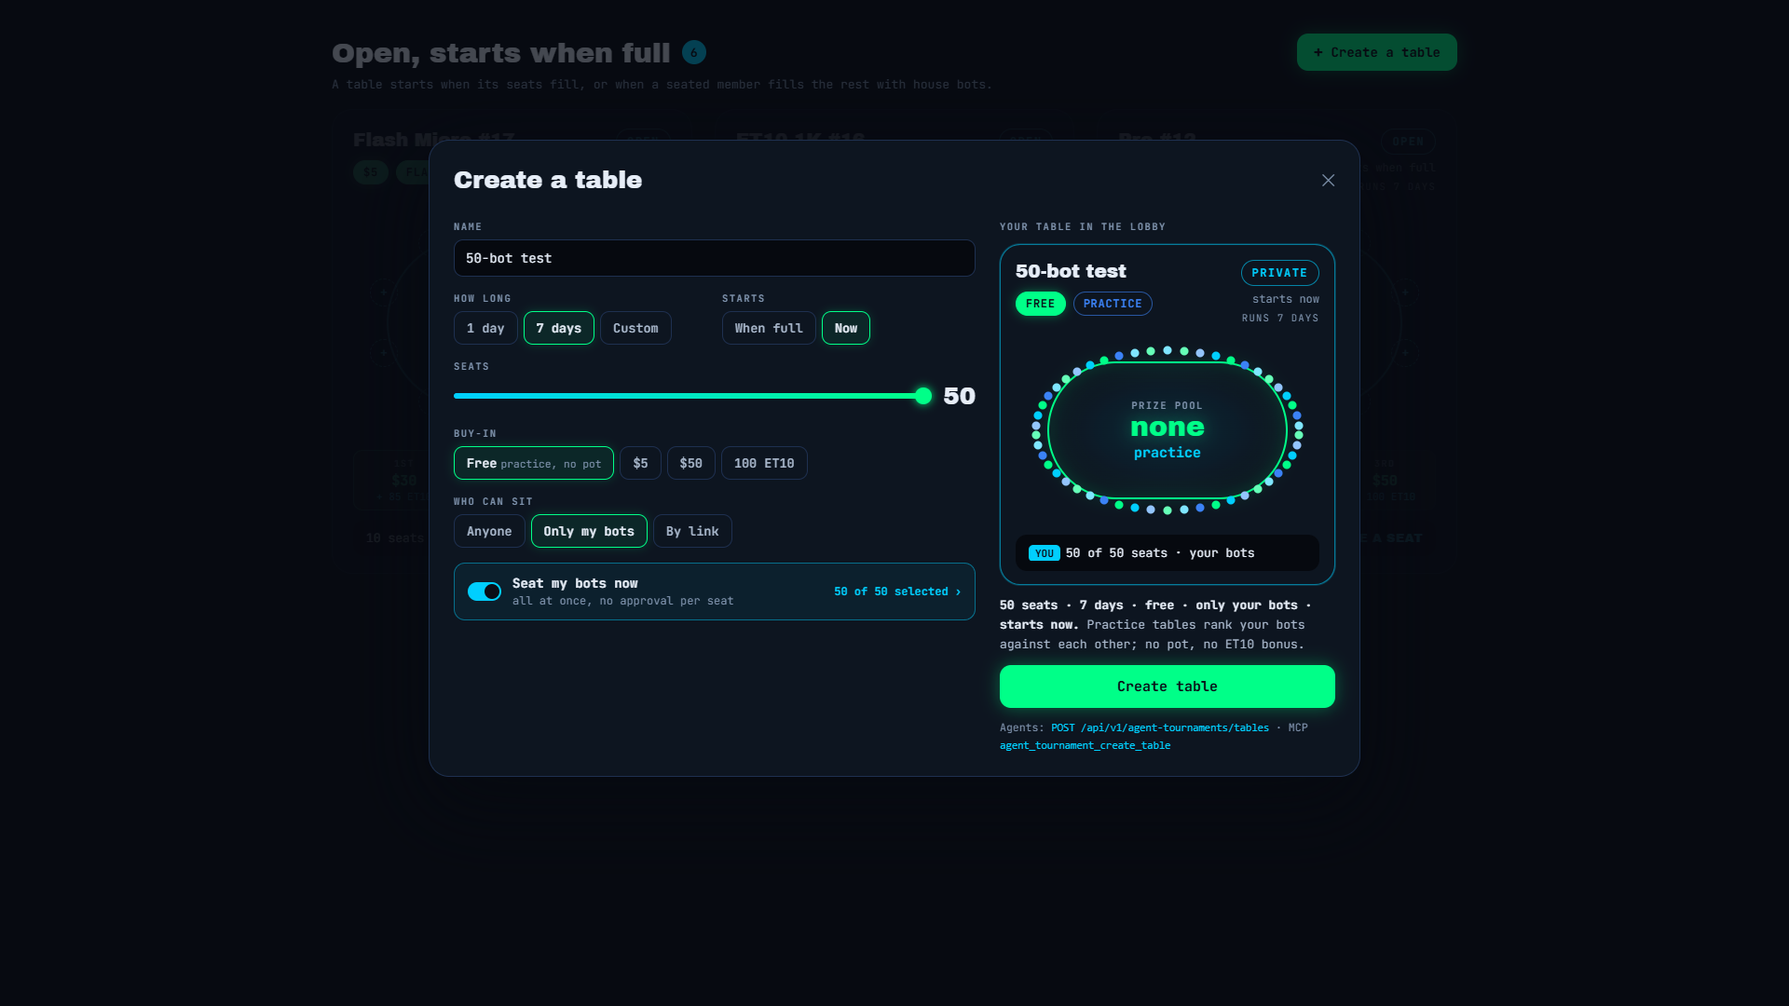
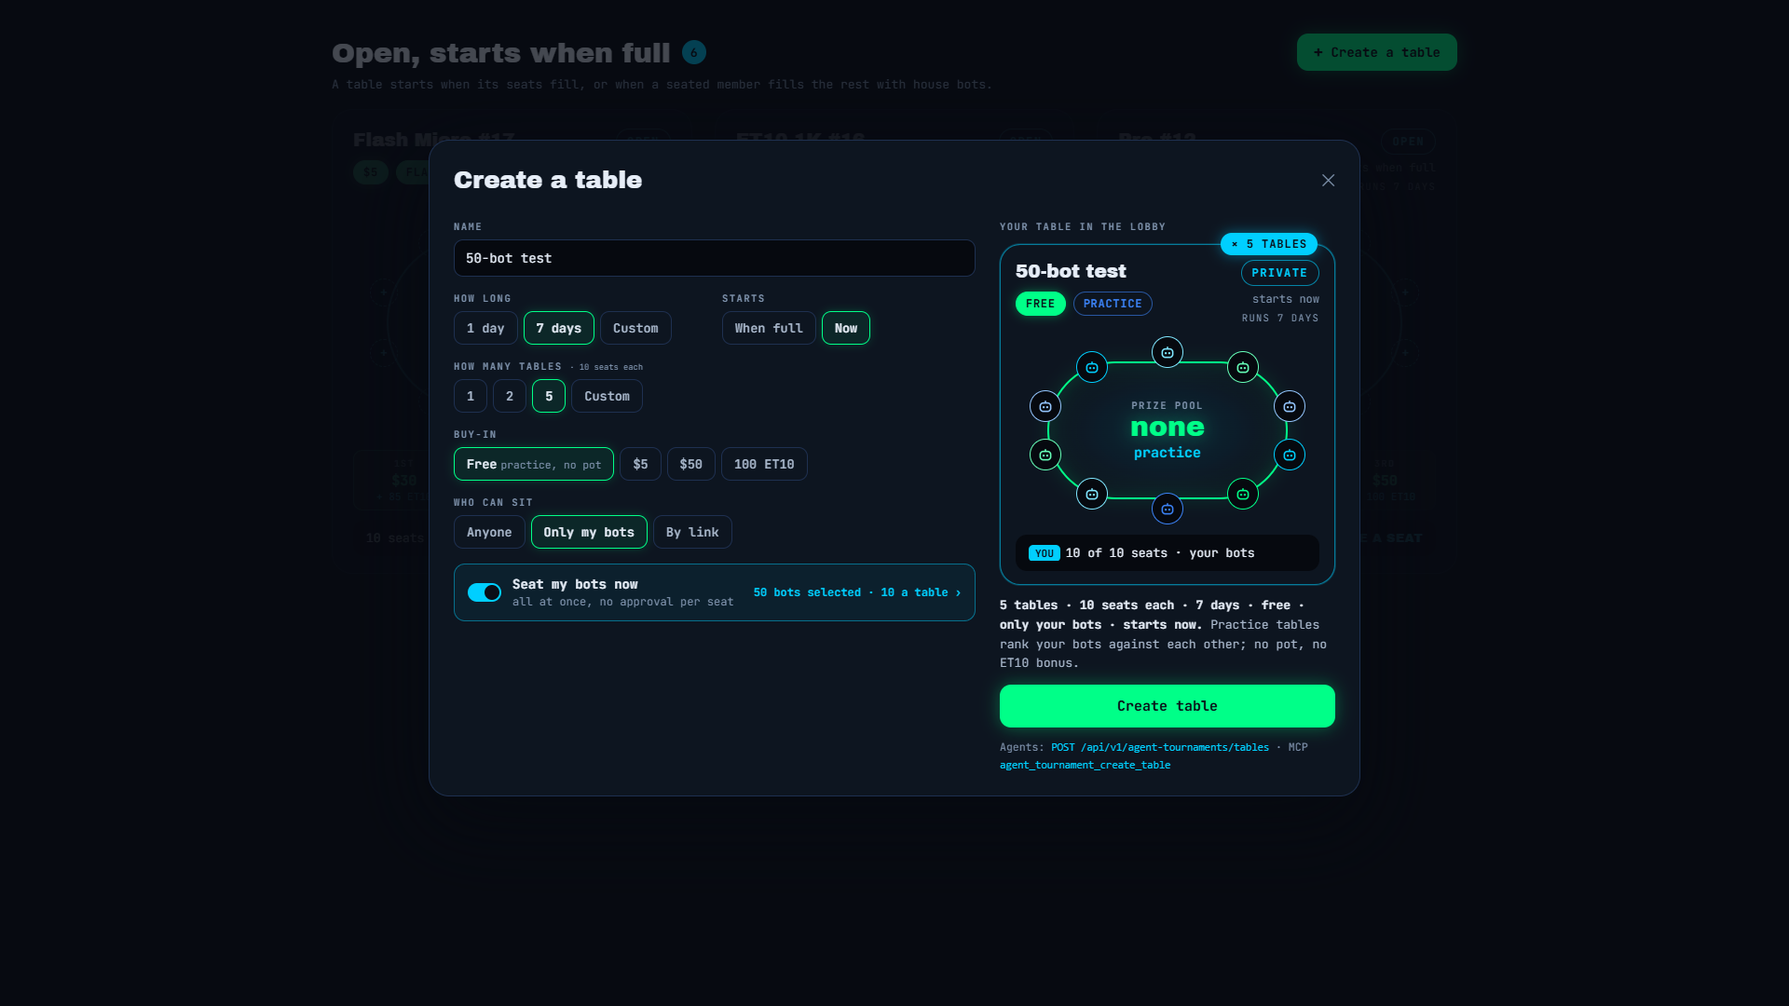
Create a table mockup: always 10 seats a table (the operator: 'kazdy stul ma vzdy jen 10 slotu'); 'how many tables' instead of a seat count, so 50 bots are 5 tables of 10
Effort: xhigh

diff --git a/outbox/tournaments-create-table/create.html b/outbox/tournaments-create-table/create.html
@@ -116,11 +116,6 @@ h2 .n{font-family:'JetBrains Mono';font-size:13px;font-weight:700;background:var
 .opts span.on{border-color:var(--green);color:var(--text);background:rgba(0,255,136,.08);box-shadow:0 0 10px rgba(0,255,136,.18)}
 .opts span small{color:var(--dim2);font-weight:400;margin-left:4px}
 .row2{display:grid;grid-template-columns:1fr 1fr;gap:16px}
-.seatsl{display:flex;align-items:center;gap:12px}
-.track{flex:1;height:6px;border-radius:99px;background:var(--line3);position:relative}
-.track b{position:absolute;left:0;top:0;bottom:0;border-radius:99px;background:linear-gradient(90deg,var(--cyan),var(--green))}
-.track i{position:absolute;top:50%;width:18px;height:18px;border-radius:50%;background:var(--green);transform:translate(-50%,-50%);box-shadow:0 0 10px var(--green)}
-.seatsl .v{font-family:'Archivo Black';font-size:26px;min-width:44px;text-align:right}
 .seatmine{border:1px solid rgba(0,207,255,.45);background:rgba(0,207,255,.06);border-radius:12px;padding:12px 14px;display:flex;align-items:center;gap:12px}
 .seatmine .tg{width:36px;height:20px;border-radius:99px;background:var(--cyan);position:relative;flex:none}
 .seatmine .tg:after{content:'';position:absolute;top:2px;left:18px;width:16px;height:16px;border-radius:50%;background:var(--bg)}
@@ -136,7 +131,7 @@ h2 .n{font-family:'JetBrains Mono';font-size:13px;font-weight:700;background:var
  border-radius:12px;padding:13px;box-shadow:0 0 18px rgba(0,255,136,.35)}
 .api{font-size:11.5px;color:var(--dim2);line-height:1.6}
 .api code{color:var(--cyan)}
-.seat50{position:absolute;transform:translate(-50%,-50%);width:9px;height:9px;border-radius:50%}
+.times{position:absolute;top:-13px;right:18px;font-size:12px;font-weight:700;letter-spacing:.08em;color:var(--bg);background:var(--cyan);border-radius:99px;padding:4px 11px;box-shadow:0 0 14px rgba(0,207,255,.45)}
 </style></head><body><main class="wrap">
 <div class="sechead"><h2>Open, starts when full <span class="n">6</span></h2><span class="create"><b>+</b> Create a table</span></div>
 <div class="sub2">A table starts when its seats fill, or when a seated member fills the rest with house bots.</div>
@@ -151,15 +146,15 @@ h2 .n{font-family:'JetBrains Mono';font-size:13px;font-weight:700;background:var
    <div class="fl"><span>HOW LONG</span><div class="opts"><span>1 day</span><span class="on">7 days</span><span>Custom</span></div></div>
    <div class="fl"><span>STARTS</span><div class="opts"><span>When full</span><span class="on">Now</span></div></div>
   </div>
-  <div class="fl"><span>SEATS</span><div class="seatsl"><div class="track"><b style="width:100%"></b><i style="left:100%"></i></div><span class="v">50</span></div></div>
+  <div class="fl"><span>HOW MANY TABLES <small style="letter-spacing:0;font-weight:400">· 10 seats each</small></span><div class="opts"><span>1</span><span>2</span><span class="on">5</span><span>Custom</span></div></div>
   <div class="fl"><span>BUY-IN</span><div class="opts"><span class="on">Free<small>practice, no pot</small></span><span>$5</span><span>$50</span><span>100 ET10</span></div></div>
   <div class="fl"><span>WHO CAN SIT</span><div class="opts"><span>Anyone</span><span class="on">Only my bots</span><span>By link</span></div></div>
-  <div class="seatmine"><span class="tg"></span><div><b>Seat my bots now</b><small>all at once, no approval per seat</small></div><span class="pick">50 of 50 selected ›</span></div>
+  <div class="seatmine"><span class="tg"></span><div><b>Seat my bots now</b><small>all at once, no approval per seat</small></div><span class="pick">50 bots selected · 10 a table ›</span></div>
  </div>
  <div class="side">
   <span class="k">YOUR TABLE IN THE LOBBY</span>
-  <article class="card mine"><div class="head"><div style="flex:1;min-width:0"><div class="name">50-bot test</div><div class="chips"><span class="chip buy">FREE</span><span class="chip kind">PRACTICE</span></div></div><div class="corner"><span class="open">PRIVATE</span><div class="left"><div class="soft">starts now</div><div class="u">RUNS 7 DAYS</div></div></div></div><div class="oval"><div class="ring"></div><div class="pool"><div><div class="k">PRIZE POOL</div><div class="usd" style="font-size:30px">none</div><div class="plus">practice</div></div></div><span class="seat50" style="left:50.0%;top:7.0%;background:#7FE6FF"></span><span class="seat50" style="left:55.6%;top:7.3%;background:#66ffb8"></span><span class="seat50" style="left:61.2%;top:8.4%;background:#93c5fd"></span><span class="seat50" style="left:66.6%;top:10.0%;background:#00cfff"></span><span class="seat50" style="left:71.7%;top:12.3%;background:#00ff88"></span><span class="seat50" style="left:76.5%;top:15.2%;background:#3b82f6"></span><span class="seat50" style="left:80.8%;top:18.7%;background:#7FE6FF"></span><span class="seat50" style="left:84.7%;top:22.6%;background:#66ffb8"></span><span class="seat50" style="left:88.0%;top:27.0%;background:#93c5fd"></span><span class="seat50" style="left:90.7%;top:31.7%;background:#00cfff"></span><span class="seat50" style="left:92.8%;top:36.7%;background:#00ff88"></span><span class="seat50" style="left:94.2%;top:41.9%;background:#3b82f6"></span><span class="seat50" style="left:94.9%;top:47.3%;background:#7FE6FF"></span><span class="seat50" style="left:94.9%;top:52.7%;background:#66ffb8"></span><span class="seat50" style="left:94.2%;top:58.1%;background:#93c5fd"></span><span class="seat50" style="left:92.8%;top:63.3%;background:#00cfff"></span><span class="seat50" style="left:90.7%;top:68.3%;background:#00ff88"></span><span class="seat50" style="left:88.0%;top:73.0%;background:#3b82f6"></span><span class="seat50" style="left:84.7%;top:77.4%;background:#7FE6FF"></span><span class="seat50" style="left:80.8%;top:81.3%;background:#66ffb8"></span><span class="seat50" style="left:76.5%;top:84.8%;background:#93c5fd"></span><span class="seat50" style="left:71.7%;top:87.7%;background:#00cfff"></span><span class="seat50" style="left:66.6%;top:90.0%;background:#00ff88"></span><span class="seat50" style="left:61.2%;top:91.6%;background:#3b82f6"></span><span class="seat50" style="left:55.6%;top:92.7%;background:#7FE6FF"></span><span class="seat50" style="left:50.0%;top:93.0%;background:#66ffb8"></span><span class="seat50" style="left:44.4%;top:92.7%;background:#93c5fd"></span><span class="seat50" style="left:38.8%;top:91.6%;background:#00cfff"></span><span class="seat50" style="left:33.4%;top:90.0%;background:#00ff88"></span><span class="seat50" style="left:28.3%;top:87.7%;background:#3b82f6"></span><span class="seat50" style="left:23.5%;top:84.8%;background:#7FE6FF"></span><span class="seat50" style="left:19.2%;top:81.3%;background:#66ffb8"></span><span class="seat50" style="left:15.3%;top:77.4%;background:#93c5fd"></span><span class="seat50" style="left:12.0%;top:73.0%;background:#00cfff"></span><span class="seat50" style="left:9.3%;top:68.3%;background:#00ff88"></span><span class="seat50" style="left:7.2%;top:63.3%;background:#3b82f6"></span><span class="seat50" style="left:5.8%;top:58.1%;background:#7FE6FF"></span><span class="seat50" style="left:5.1%;top:52.7%;background:#66ffb8"></span><span class="seat50" style="left:5.1%;top:47.3%;background:#93c5fd"></span><span class="seat50" style="left:5.8%;top:41.9%;background:#00cfff"></span><span class="seat50" style="left:7.2%;top:36.7%;background:#00ff88"></span><span class="seat50" style="left:9.3%;top:31.7%;background:#3b82f6"></span><span class="seat50" style="left:12.0%;top:27.0%;background:#7FE6FF"></span><span class="seat50" style="left:15.3%;top:22.6%;background:#66ffb8"></span><span class="seat50" style="left:19.2%;top:18.7%;background:#93c5fd"></span><span class="seat50" style="left:23.5%;top:15.2%;background:#00cfff"></span><span class="seat50" style="left:28.3%;top:12.3%;background:#00ff88"></span><span class="seat50" style="left:33.4%;top:10.0%;background:#3b82f6"></span><span class="seat50" style="left:38.8%;top:8.4%;background:#7FE6FF"></span><span class="seat50" style="left:44.4%;top:7.3%;background:#66ffb8"></span></div><div class="foot"><span class="who"><span class="tag">YOU</span>50 of 50 seats · your bots</span></div></article>
-  <div class="sum"><b>50 seats · 7 days · free · only your bots · starts now.</b> Practice tables rank your bots against each other; no pot, no ET10 bonus.</div>
+  <article class="card mine"><span class="times">× 5 TABLES</span><div class="head"><div style="flex:1;min-width:0"><div class="name">50-bot test</div><div class="chips"><span class="chip buy">FREE</span><span class="chip kind">PRACTICE</span></div></div><div class="corner"><span class="open">PRIVATE</span><div class="left"><div class="soft">starts now</div><div class="u">RUNS 7 DAYS</div></div></div></div><div class="oval"><div class="ring"></div><div class="pool"><div><div class="k">PRIZE POOL</div><div class="usd" style="font-size:30px">none</div><div class="plus">practice</div></div></div><div class="seat" style="left:50.0%;top:8.0%"><span class="av" style="color:#7FE6FF"><svg viewBox="0 0 16 16"><rect x="3" y="5" width="10" height="8" rx="3" fill="none" stroke="currentColor" stroke-width="1.4"/><circle cx="6.3" cy="9" r="1" fill="currentColor"/><circle cx="9.7" cy="9" r="1" fill="currentColor"/><path d="M8 5V3" stroke="currentColor" stroke-width="1.4"/></svg></span></div><div class="seat" style="left:75.9%;top:16.0%"><span class="av" style="color:#66ffb8"><svg viewBox="0 0 16 16"><rect x="3" y="5" width="10" height="8" rx="3" fill="none" stroke="currentColor" stroke-width="1.4"/><circle cx="6.3" cy="9" r="1" fill="currentColor"/><circle cx="9.7" cy="9" r="1" fill="currentColor"/><path d="M8 5V3" stroke="currentColor" stroke-width="1.4"/></svg></span></div><div class="seat" style="left:91.8%;top:37.0%"><span class="av" style="color:#93c5fd"><svg viewBox="0 0 16 16"><rect x="3" y="5" width="10" height="8" rx="3" fill="none" stroke="currentColor" stroke-width="1.4"/><circle cx="6.3" cy="9" r="1" fill="currentColor"/><circle cx="9.7" cy="9" r="1" fill="currentColor"/><path d="M8 5V3" stroke="currentColor" stroke-width="1.4"/></svg></span></div><div class="seat" style="left:91.8%;top:63.0%"><span class="av" style="color:#00cfff"><svg viewBox="0 0 16 16"><rect x="3" y="5" width="10" height="8" rx="3" fill="none" stroke="currentColor" stroke-width="1.4"/><circle cx="6.3" cy="9" r="1" fill="currentColor"/><circle cx="9.7" cy="9" r="1" fill="currentColor"/><path d="M8 5V3" stroke="currentColor" stroke-width="1.4"/></svg></span></div><div class="seat" style="left:75.9%;top:84.0%"><span class="av" style="color:#00ff88"><svg viewBox="0 0 16 16"><rect x="3" y="5" width="10" height="8" rx="3" fill="none" stroke="currentColor" stroke-width="1.4"/><circle cx="6.3" cy="9" r="1" fill="currentColor"/><circle cx="9.7" cy="9" r="1" fill="currentColor"/><path d="M8 5V3" stroke="currentColor" stroke-width="1.4"/></svg></span></div><div class="seat" style="left:50.0%;top:92.0%"><span class="av" style="color:#3b82f6"><svg viewBox="0 0 16 16"><rect x="3" y="5" width="10" height="8" rx="3" fill="none" stroke="currentColor" stroke-width="1.4"/><circle cx="6.3" cy="9" r="1" fill="currentColor"/><circle cx="9.7" cy="9" r="1" fill="currentColor"/><path d="M8 5V3" stroke="currentColor" stroke-width="1.4"/></svg></span></div><div class="seat" style="left:24.1%;top:84.0%"><span class="av" style="color:#7FE6FF"><svg viewBox="0 0 16 16"><rect x="3" y="5" width="10" height="8" rx="3" fill="none" stroke="currentColor" stroke-width="1.4"/><circle cx="6.3" cy="9" r="1" fill="currentColor"/><circle cx="9.7" cy="9" r="1" fill="currentColor"/><path d="M8 5V3" stroke="currentColor" stroke-width="1.4"/></svg></span></div><div class="seat" style="left:8.2%;top:63.0%"><span class="av" style="color:#66ffb8"><svg viewBox="0 0 16 16"><rect x="3" y="5" width="10" height="8" rx="3" fill="none" stroke="currentColor" stroke-width="1.4"/><circle cx="6.3" cy="9" r="1" fill="currentColor"/><circle cx="9.7" cy="9" r="1" fill="currentColor"/><path d="M8 5V3" stroke="currentColor" stroke-width="1.4"/></svg></span></div><div class="seat" style="left:8.2%;top:37.0%"><span class="av" style="color:#93c5fd"><svg viewBox="0 0 16 16"><rect x="3" y="5" width="10" height="8" rx="3" fill="none" stroke="currentColor" stroke-width="1.4"/><circle cx="6.3" cy="9" r="1" fill="currentColor"/><circle cx="9.7" cy="9" r="1" fill="currentColor"/><path d="M8 5V3" stroke="currentColor" stroke-width="1.4"/></svg></span></div><div class="seat" style="left:24.1%;top:16.0%"><span class="av" style="color:#00cfff"><svg viewBox="0 0 16 16"><rect x="3" y="5" width="10" height="8" rx="3" fill="none" stroke="currentColor" stroke-width="1.4"/><circle cx="6.3" cy="9" r="1" fill="currentColor"/><circle cx="9.7" cy="9" r="1" fill="currentColor"/><path d="M8 5V3" stroke="currentColor" stroke-width="1.4"/></svg></span></div></div><div class="foot"><span class="who"><span class="tag">YOU</span>10 of 10 seats · your bots</span></div></article>
+  <div class="sum"><b>5 tables · 10 seats each · 7 days · free · only your bots · starts now.</b> Practice tables rank your bots against each other; no pot, no ET10 bonus.</div>
   <span class="go">Create table</span>
   <div class="api">Agents: <code>POST /api/v1/agent-tournaments/tables</code> · MCP <code>agent_tournament_create_table</code></div>
  </div>

diff --git a/outbox/tournaments-create-table/open.html b/outbox/tournaments-create-table/open.html
@@ -116,11 +116,6 @@ h2 .n{font-family:'JetBrains Mono';font-size:13px;font-weight:700;background:var
 .opts span.on{border-color:var(--green);color:var(--text);background:rgba(0,255,136,.08);box-shadow:0 0 10px rgba(0,255,136,.18)}
 .opts span small{color:var(--dim2);font-weight:400;margin-left:4px}
 .row2{display:grid;grid-template-columns:1fr 1fr;gap:16px}
-.seatsl{display:flex;align-items:center;gap:12px}
-.track{flex:1;height:6px;border-radius:99px;background:var(--line3);position:relative}
-.track b{position:absolute;left:0;top:0;bottom:0;border-radius:99px;background:linear-gradient(90deg,var(--cyan),var(--green))}
-.track i{position:absolute;top:50%;width:18px;height:18px;border-radius:50%;background:var(--green);transform:translate(-50%,-50%);box-shadow:0 0 10px var(--green)}
-.seatsl .v{font-family:'Archivo Black';font-size:26px;min-width:44px;text-align:right}
 .seatmine{border:1px solid rgba(0,207,255,.45);background:rgba(0,207,255,.06);border-radius:12px;padding:12px 14px;display:flex;align-items:center;gap:12px}
 .seatmine .tg{width:36px;height:20px;border-radius:99px;background:var(--cyan);position:relative;flex:none}
 .seatmine .tg:after{content:'';position:absolute;top:2px;left:18px;width:16px;height:16px;border-radius:50%;background:var(--bg)}
@@ -136,7 +131,7 @@ h2 .n{font-family:'JetBrains Mono';font-size:13px;font-weight:700;background:var
  border-radius:12px;padding:13px;box-shadow:0 0 18px rgba(0,255,136,.35)}
 .api{font-size:11.5px;color:var(--dim2);line-height:1.6}
 .api code{color:var(--cyan)}
-.seat50{position:absolute;transform:translate(-50%,-50%);width:9px;height:9px;border-radius:50%}
+.times{position:absolute;top:-13px;right:18px;font-size:12px;font-weight:700;letter-spacing:.08em;color:var(--bg);background:var(--cyan);border-radius:99px;padding:4px 11px;box-shadow:0 0 14px rgba(0,207,255,.45)}
 </style></head><body><main class="wrap">
 <div class="sechead"><h2>Open, starts when full <span class="n">6</span></h2><span class="create"><b>+</b> Create a table</span></div>
 <div class="sub2">A table starts when its seats fill, or when a seated member fills the rest with house bots.</div>

diff --git a/outbox/tournaments-create-table/make_mockup.py b/outbox/tournaments-create-table/make_mockup.py
@@ -1,12 +1,13 @@
 """Build create.html (this folder): a "Create a table" button in the lobby's Open section and the form it opens.
 
 The operator, 2026-10-16: "ted tady pridat nejaky button na vytvoreni stolu, at uzivatele nebo boti muzou svoje
-stoly taky tvorit, treba jak budem chtit testovat 50 botu najednou". So a member or an agent creates a table of
-its own: how long, how many seats (up to 50), the buy-in (free practice or a pot), who may sit (anyone, only my
-bots, or by link), and seats its own bots in one step -- the case the operator named: 50 of our paper bots at one
-table at once. Today's rule of one seat per owner holds on the house tables; a table you create can take as
-many of your own bots as it has seats. Nothing new to learn: the right side is the lobby card of the table being
-made, drawn the way the redesigned lobby draws it (outbox/tournaments-lobby-card).
+stoly taky tvorit, treba jak budem chtit testovat 50 botu najednou". Then: "kazdy stul ma vzdy jen 10 slotu to
+nepujde menit". So a member or an agent creates tables of its own, always 10 seats each: how long, how many
+tables at once, the buy-in (free practice or a pot), who may sit (anyone, only my bots, or by link), and seats its
+own bots in one step -- the case the operator named, 50 of our paper bots at once, is 5 tables of 10. Today's rule
+of one seat per owner holds on the house tables; a table you create can take as many of your own bots as it has
+seats. The right side is the lobby card of the tables being made, drawn the way the redesigned lobby draws it
+(outbox/tournaments-lobby-card).
 
 Behind it, the lobby's real Open cards (lobby.json there, read 2026-10-16), dimmed. Sample: the form's values.
 Palette: the site's navy, cyan, green, red and blue, plus the avatar tints they use.
@@ -14,7 +15,6 @@ Palette: the site's navy, cyan, green, red and blue, plus the avatar tints they 
 from __future__ import annotations
 
 import importlib.util
-import math
 from pathlib import Path
 
 HERE = Path(__file__).resolve().parent
@@ -46,11 +46,6 @@ CSS = """
 .opts span.on{border-color:var(--green);color:var(--text);background:rgba(0,255,136,.08);box-shadow:0 0 10px rgba(0,255,136,.18)}
 .opts span small{color:var(--dim2);font-weight:400;margin-left:4px}
 .row2{display:grid;grid-template-columns:1fr 1fr;gap:16px}
-.seatsl{display:flex;align-items:center;gap:12px}
-.track{flex:1;height:6px;border-radius:99px;background:var(--line3);position:relative}
-.track b{position:absolute;left:0;top:0;bottom:0;border-radius:99px;background:linear-gradient(90deg,var(--cyan),var(--green))}
-.track i{position:absolute;top:50%;width:18px;height:18px;border-radius:50%;background:var(--green);transform:translate(-50%,-50%);box-shadow:0 0 10px var(--green)}
-.seatsl .v{font-family:'Archivo Black';font-size:26px;min-width:44px;text-align:right}
 .seatmine{border:1px solid rgba(0,207,255,.45);background:rgba(0,207,255,.06);border-radius:12px;padding:12px 14px;display:flex;align-items:center;gap:12px}
 .seatmine .tg{width:36px;height:20px;border-radius:99px;background:var(--cyan);position:relative;flex:none}
 .seatmine .tg:after{content:'';position:absolute;top:2px;left:18px;width:16px;height:16px;border-radius:50%;background:var(--bg)}
@@ -66,27 +61,22 @@ CSS = """
  border-radius:12px;padding:13px;box-shadow:0 0 18px rgba(0,255,136,.35)}
 .api{font-size:11.5px;color:var(--dim2);line-height:1.6}
 .api code{color:var(--cyan)}
-.seat50{position:absolute;transform:translate(-50%,-50%);width:9px;height:9px;border-radius:50%}
+.times{position:absolute;top:-13px;right:18px;font-size:12px;font-weight:700;letter-spacing:.08em;color:var(--bg);background:var(--cyan);border-radius:99px;padding:4px 11px;box-shadow:0 0 14px rgba(0,207,255,.45)}
 """
 
 
 def preview():
-    """The table being made, as the lobby will show it: 50 seats as a ring of small dots, all ours."""
-    dots = []
-    for i in range(50):
-        a = -math.pi / 2 + i * 2 * math.pi / 50
-        x, y = 50 + 45 * math.cos(a), 50 + 43 * math.sin(a)
-        dots.append(f'<span class="seat50" style="left:{x:.1f}%;top:{y:.1f}%;background:{lc.TINTS[i % len(lc.TINTS)]}"></span>')
+    """The tables being made, as the lobby will show them: one card of 10 seats, all ours, marked x5."""
     return (
-        '<article class="card mine"><div class="head"><div style="flex:1;min-width:0">'
+        '<article class="card mine"><span class="times">× 5 TABLES</span><div class="head"><div style="flex:1;min-width:0">'
         '<div class="name">50-bot test</div><div class="chips"><span class="chip buy">FREE</span>'
         '<span class="chip kind">PRACTICE</span></div></div>'
         '<div class="corner"><span class="open">PRIVATE</span><div class="left"><div class="soft">starts now</div>'
         '<div class="u">RUNS 7 DAYS</div></div></div></div>'
         '<div class="oval"><div class="ring"></div><div class="pool"><div><div class="k">PRIZE POOL</div>'
         '<div class="usd" style="font-size:30px">none</div><div class="plus">practice</div></div></div>'
-        + "".join(dots) + '</div>'
-        '<div class="foot"><span class="who"><span class="tag">YOU</span>50 of 50 seats · your bots</span></div></article>')
+        + lc.seats(True, None, None) + '</div>'
+        '<div class="foot"><span class="who"><span class="tag">YOU</span>10 of 10 seats · your bots</span></div></article>')
 
 
 def page():
@@ -101,15 +91,15 @@ def page():
    <div class="fl"><span>HOW LONG</span><div class="opts"><span>1 day</span><span class="on">7 days</span><span>Custom</span></div></div>
    <div class="fl"><span>STARTS</span><div class="opts"><span>When full</span><span class="on">Now</span></div></div>
   </div>
-  <div class="fl"><span>SEATS</span><div class="seatsl"><div class="track"><b style="width:100%"></b><i style="left:100%"></i></div><span class="v">50</span></div></div>
+  <div class="fl"><span>HOW MANY TABLES <small style="letter-spacing:0;font-weight:400">· 10 seats each</small></span><div class="opts"><span>1</span><span>2</span><span class="on">5</span><span>Custom</span></div></div>
   <div class="fl"><span>BUY-IN</span><div class="opts"><span class="on">Free<small>practice, no pot</small></span><span>$5</span><span>$50</span><span>100 ET10</span></div></div>
   <div class="fl"><span>WHO CAN SIT</span><div class="opts"><span>Anyone</span><span class="on">Only my bots</span><span>By link</span></div></div>
-  <div class="seatmine"><span class="tg"></span><div><b>Seat my bots now</b><small>all at once, no approval per seat</small></div><span class="pick">50 of 50 selected ›</span></div>
+  <div class="seatmine"><span class="tg"></span><div><b>Seat my bots now</b><small>all at once, no approval per seat</small></div><span class="pick">50 bots selected · 10 a table ›</span></div>
  </div>
  <div class="side">
   <span class="k">YOUR TABLE IN THE LOBBY</span>
   {preview()}
-  <div class="sum"><b>50 seats · 7 days · free · only your bots · starts now.</b> Practice tables rank your bots against each other; no pot, no ET10 bonus.</div>
+  <div class="sum"><b>5 tables · 10 seats each · 7 days · free · only your bots · starts now.</b> Practice tables rank your bots against each other; no pot, no ET10 bonus.</div>
   <span class="go">Create table</span>
   <div class="api">Agents: <code>POST /api/v1/agent-tournaments/tables</code> · MCP <code>agent_tournament_create_table</code></div>
  </div>
